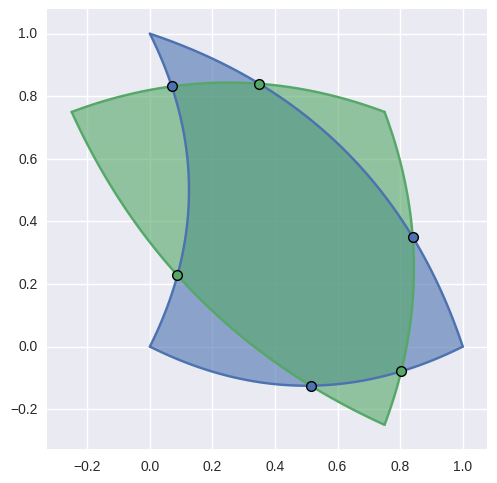
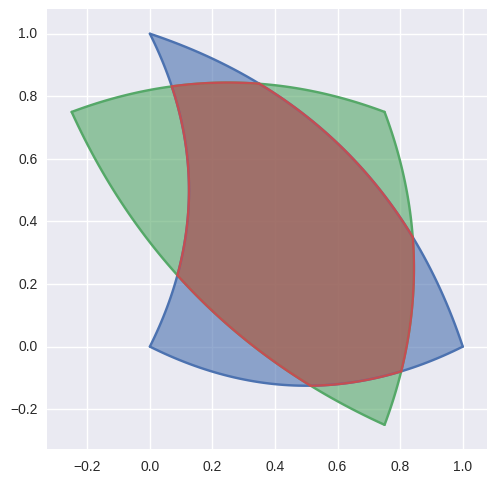
Using new_plot() everywhere in surf-surf fnl. test.

Changed region(s): [[0.332, 0.1553, 0.8451, 0.8075]]

diff --git a/functional_tests/test_surface_surface.py b/functional_tests/test_surface_surface.py
@@ -416,7 +416,7 @@ Intersected = collections.namedtuple(
     ['start_vals', 'end_vals', 'nodes', 'edge_pairs'])
 
 
-def new_plot(surface1, surface2, intersections):
+def new_plot(surface1, surface2, intersections, failed=True):
     if not CONFIG.running:
         return
 
@@ -435,51 +435,30 @@ def new_plot(surface1, surface2, intersections):
     if CONFIG.save_plot:
         CONFIG.save_fig()
     else:
-        plt.title(CONFIG.current_test)
-        plt.show()
-
-    plt.close(ax.figure)
-
-
-def make_plots(surface1, surface2, points, interior_edges):
-    if not CONFIG.running:
-        return
-
-    ax = surface1.plot(64)
-    # Color is (R,G,B,A) but we just want (R,G,B).
-    color0 = ax.patches[-1].get_facecolor()[:3]
-    surface2.plot(64, ax=ax)
-    color1 = ax.patches[-1].get_facecolor()[:3]
-
-    # Add a fake point to get the next color.
-    line, = ax.plot([0], [0])
-    color2 = line.get_color()
-    line.remove()
-
-    for point, interior in six.moves.zip(points, interior_edges):
-        if interior in (0, 3):
-            color = color0
-        elif interior in (1, 4):
-            color = color1
-        elif interior == 2:
-            color = color2
+        if failed:
+            plt.title(CONFIG.current_test + ': failed')
         else:
-            color = 'black'
-
-        ax.plot([point[0]], [point[1]], color=color,
-                marker='o', linestyle='None',
-                markeredgecolor='black', markeredgewidth=1)
-
-    plt.axis('scaled')
-    runtime_utils.add_plot_boundary(ax)
-
-    if CONFIG.save_plot:
-        CONFIG.save_fig()
-    else:
-        plt.title(CONFIG.current_test)
+            plt.title(CONFIG.current_test)
         plt.show()
 
     plt.close(ax.figure)
+
+
+def make_curved_polygon(surface1, surface2,
+                        start_vals, end_vals, edge_pairs):
+    base_edges = (
+        surface1._get_edges(),
+        surface2._get_edges(),
+    )
+
+    info = six.moves.zip(edge_pairs, start_vals, end_vals)
+    edges = []
+    for edge_pair, start_val, end_val in info:
+        surf_index, edge_index = edge_pair
+        base_edge = base_edges[surf_index][edge_index]
+        edges.append(base_edge.specialize(start_val, end_val))
+
+    return bezier.CurvedPolygon(*edges)
 
 
 def surface_surface_check(surface1, surface2,
@@ -525,7 +504,7 @@ def surface_surface_check_multi(surface1, surface2, *all_intersected):
             CONFIG.assert_close(edge._nodes[0, 0], node[0])
             CONFIG.assert_close(edge._nodes[0, 1], node[1])
 
-    new_plot(surface1, surface2, intersections)
+    new_plot(surface1, surface2, intersections, failed=False)
 
 
 def test_surfaces1Q_and_3Q():
@@ -639,27 +618,18 @@ def test_surfaces10Q_and_18Q():
                               start_vals, end_vals, nodes, edge_pairs)
 
     assert str(exc_info.value).startswith(TANGENT_FAILURE)
-    points = np.array([
-        [0.5, -0.75],
-        [0.75, 0.09375],
-        [0.0, 0.0],
-    ])
-    interior_edges = [None, None, None]
-    make_plots(SURFACE10Q, SURFACE18Q, points, interior_edges)
+    intersection = make_curved_polygon(
+        SURFACE10Q, SURFACE18Q,
+        start_vals, end_vals, edge_pairs)
+    new_plot(SURFACE10Q, SURFACE18Q, [intersection])
 
 
 def test_surfaces10Q_and_19Q():
     with pytest.raises(NotImplementedError) as exc_info:
-        intersections = SURFACE10Q.intersect(SURFACE19Q)
-        assert intersections == []
+        surface_surface_check_multi(SURFACE10Q, SURFACE19Q)
 
     assert exc_info.value.args == PARALLEL_FAILURE
-    points = np.array([
-        [0.0, 0.0],
-        [0.5, -0.75],
-    ])
-    interior_edges = [None, None]
-    make_plots(SURFACE10Q, SURFACE19Q, points, interior_edges)
+    new_plot(SURFACE10Q, SURFACE19Q, [])
 
 
 def test_surfaces3Q_and_4Q():
@@ -715,14 +685,10 @@ def test_surfaces1Q_and_5L():
                               start_vals, end_vals, nodes, edge_pairs)
 
     assert str(exc_info.value).startswith(TANGENT_FAILURE)
-    points = np.array([
-        [0.75, -0.09375],
-        [0.25, -0.09375],
-        [0.125, 0.5],
-        [x_val4, 0.5],
-    ])
-    interior_edges = [3, 3, 0, 1]
-    make_plots(SURFACE1Q, SURFACE5L, points, interior_edges)
+    intersection = make_curved_polygon(
+        SURFACE1Q, SURFACE5L,
+        start_vals, end_vals, edge_pairs)
+    new_plot(SURFACE1Q, SURFACE5L, [intersection])
 
 
 def test_surfaces3Q_and_5Q():
@@ -797,12 +763,10 @@ def test_surfaces20Q_and_21Q():
                               start_vals, end_vals, nodes, edge_pairs)
 
     assert exc_info.value.args == PARALLEL_FAILURE
-    points = np.array([
-        [1.0, 0.0],
-        [-0.5, 0.5],
-    ])
-    interior_edges = [3, 1]
-    make_plots(SURFACE20Q, SURFACE21Q, points, interior_edges)
+    intersection = make_curved_polygon(
+        SURFACE20Q, SURFACE21Q,
+        start_vals, end_vals, edge_pairs)
+    new_plot(SURFACE20Q, SURFACE21Q, [intersection])
 
 
 def test_surfaces4L_and_22Q():
@@ -824,13 +788,10 @@ def test_surfaces4L_and_22Q():
                               start_vals, end_vals, nodes, edge_pairs)
 
     assert str(exc_info.value).startswith(TANGENT_FAILURE)
-    points = np.array([
-        [0.0, 0.0],
-        [0.625, 1.09375],
-        [-0.625, 1.09375],
-    ])
-    interior_edges = [3, 3, 3]
-    make_plots(SURFACE4L, SURFACE22Q, points, interior_edges)
+    intersection = make_curved_polygon(
+        SURFACE4L, SURFACE22Q,
+        start_vals, end_vals, edge_pairs)
+    new_plot(SURFACE4L, SURFACE22Q, [intersection])
 
 
 def test_surfaces4L_and_23Q():
@@ -852,13 +813,10 @@ def test_surfaces4L_and_23Q():
                               start_vals, end_vals, nodes, edge_pairs)
 
     assert str(exc_info.value).startswith(TANGENT_FAILURE)
-    points = np.array([
-        [0.0, 0.0],
-        [0.625, 1.09375],
-        [-0.625, 1.09375],
-    ])
-    interior_edges = [4, 4, 4]
-    make_plots(SURFACE4L, SURFACE23Q, points, interior_edges)
+    intersection = make_curved_polygon(
+        SURFACE4L, SURFACE23Q,
+        start_vals, end_vals, edge_pairs)
+    new_plot(SURFACE4L, SURFACE23Q, [intersection])
 
 
 def test_surfaces6Q_and_7Q():
@@ -949,15 +907,10 @@ def test_surfaces8Q_and_9Q():
 
 def test_surfaces4Q_and_10Q():
     with pytest.raises(NotImplementedError) as exc_info:
-        intersections = SURFACE4Q.intersect(SURFACE10Q)
-        assert intersections == []
+        surface_surface_check_multi(SURFACE4Q, SURFACE10Q)
 
     assert exc_info.value.args == ALL_TANGENT
-    points = np.array([
-        [0.5, 0.125],
-    ])
-    interior_edges = [2]
-    make_plots(SURFACE10Q, SURFACE18Q, points, interior_edges)
+    new_plot(SURFACE4Q, SURFACE10Q, [])
 
 
 def test_surfaces11Q_and_12Q():
@@ -996,11 +949,10 @@ def test_surfaces3Q_and_13Q():
                               start_vals, end_vals, nodes, edge_pairs)
 
     assert exc_info.value.args == ALL_TANGENT
-    points = np.array([
-        [0.5, 0.125],
-    ])
-    interior_edges = [4]
-    make_plots(SURFACE3Q, SURFACE13Q, points, interior_edges)
+    intersection = make_curved_polygon(
+        SURFACE3Q, SURFACE13Q,
+        start_vals, end_vals, edge_pairs)
+    new_plot(SURFACE3Q, SURFACE13Q, [intersection])
 
 
 def test_surfaces10Q_and_17Q():
@@ -1022,10 +974,28 @@ def test_surfaces10Q_and_17Q():
 
 
 def test_surfaces3Q_and_14Q():
-    intersections = SURFACE3Q.intersect(SURFACE14Q)
-    assert intersections == []
+    start_vals = np.array([0.0, 0.0, 0.0])
+    end_vals = np.array([1.0, 1.0, 1.0])
 
-    make_plots(SURFACE3Q, SURFACE14Q, [], [])
+    nodes = np.array([
+        [0.25, 0.21875],
+        [0.75, 0.21875],
+        [0.5, 0.6875],
+    ])
+    edge_pairs = (
+        (1, 0),
+        (1, 1),
+        (1, 2),
+    )
+
+    with pytest.raises(AssertionError):
+        surface_surface_check(SURFACE3Q, SURFACE14Q,
+                              start_vals, end_vals, nodes, edge_pairs)
+
+    intersection = make_curved_polygon(
+        SURFACE3Q, SURFACE14Q,
+        start_vals, end_vals, edge_pairs)
+    new_plot(SURFACE3Q, SURFACE14Q, [intersection])
 
 
 def test_surfaces15Q_and_16Q():
@@ -1077,17 +1047,13 @@ def test_surfaces15Q_and_16Q():
                                     intersected1, intersected2)
 
     assert exc_info.value.args == (_surface_helpers.BAD_TANGENT,)
-    points = np.array([
-        [0.5, 0.4375],
-        [0.5, 1.9375],
-        [0.5, 1.0],
-        [2.0 * s_val4, 1.75 * s_val4],
-        [2.0 - 2.0 * s_val5, 1.75 + 0.25 * s_val5],
-        [2.0 * s_val6 * (1.0 - s_val6), 2.0 - 2.0 * s_val6],
-        [2.0 * s_val7 * (1.0 - s_val7), 2.0 - 2.0 * s_val7],
-    ])
-    interior_edges = [0, 1, None, 1, 0, 0, 1]
-    make_plots(SURFACE15Q, SURFACE16Q, points, interior_edges)
+    intersection1 = make_curved_polygon(
+        SURFACE15Q, SURFACE16Q,
+        start_vals1, end_vals1, edge_pairs1)
+    intersection2 = make_curved_polygon(
+        SURFACE15Q, SURFACE16Q,
+        start_vals2, end_vals2, edge_pairs2)
+    new_plot(SURFACE15Q, SURFACE16Q, [intersection1, intersection2])
 
 
 def test_surfaces24Q_and_25Q():
@@ -1147,9 +1113,7 @@ def test_surfaces1L_and_6L():
 
 def test_surfaces26Q_and_27Q():
     intersections = SURFACE26Q.intersect(SURFACE27Q)
-    assert intersections == []
-
-    make_plots(SURFACE26Q, SURFACE27Q, [], [])
+    surface_surface_check_multi(SURFACE26Q, SURFACE27Q)
 
 
 def test_surfaces1L_and_28Q():
